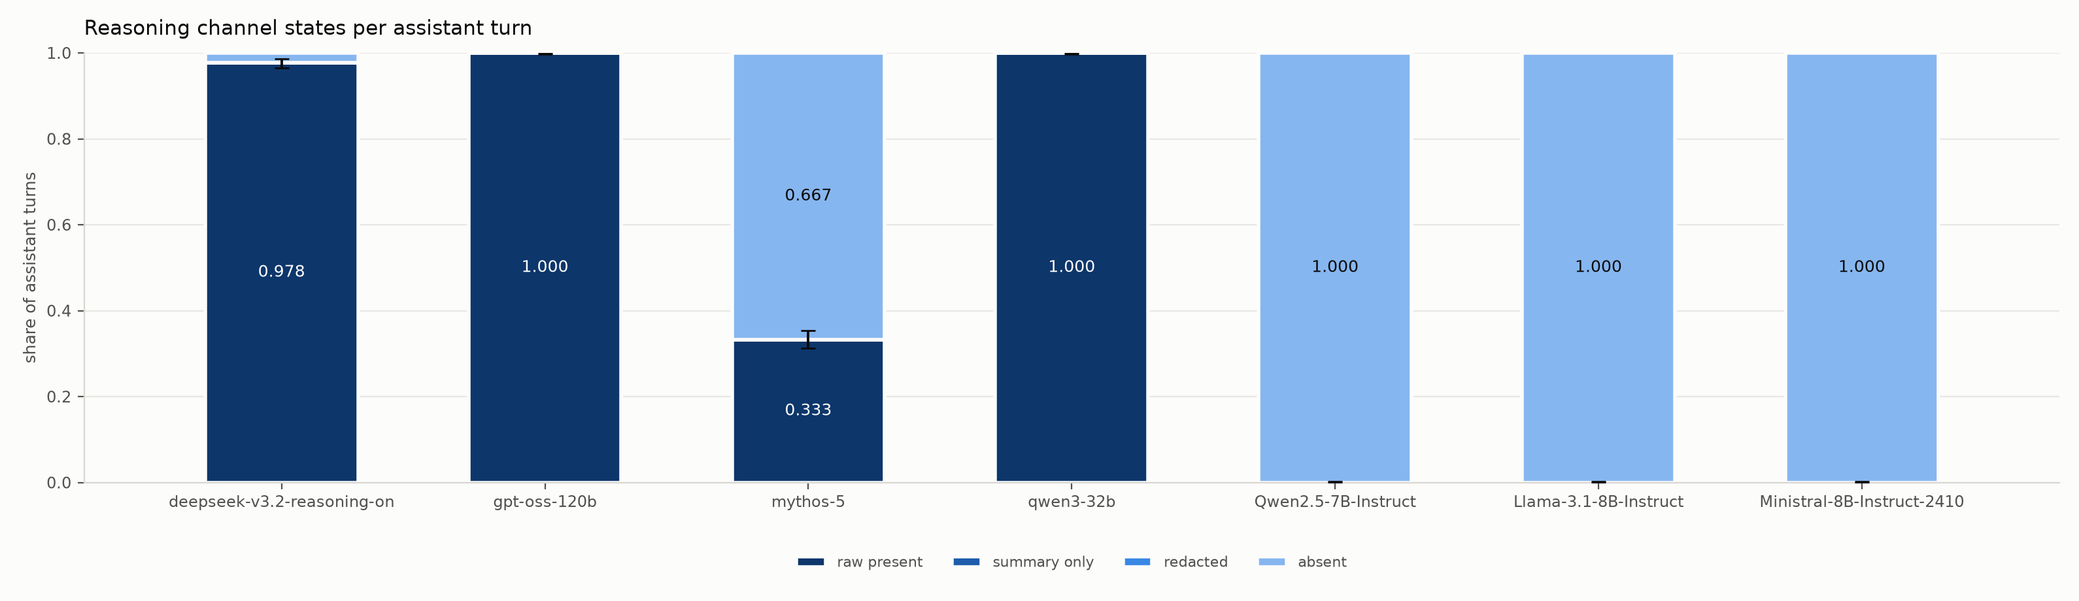
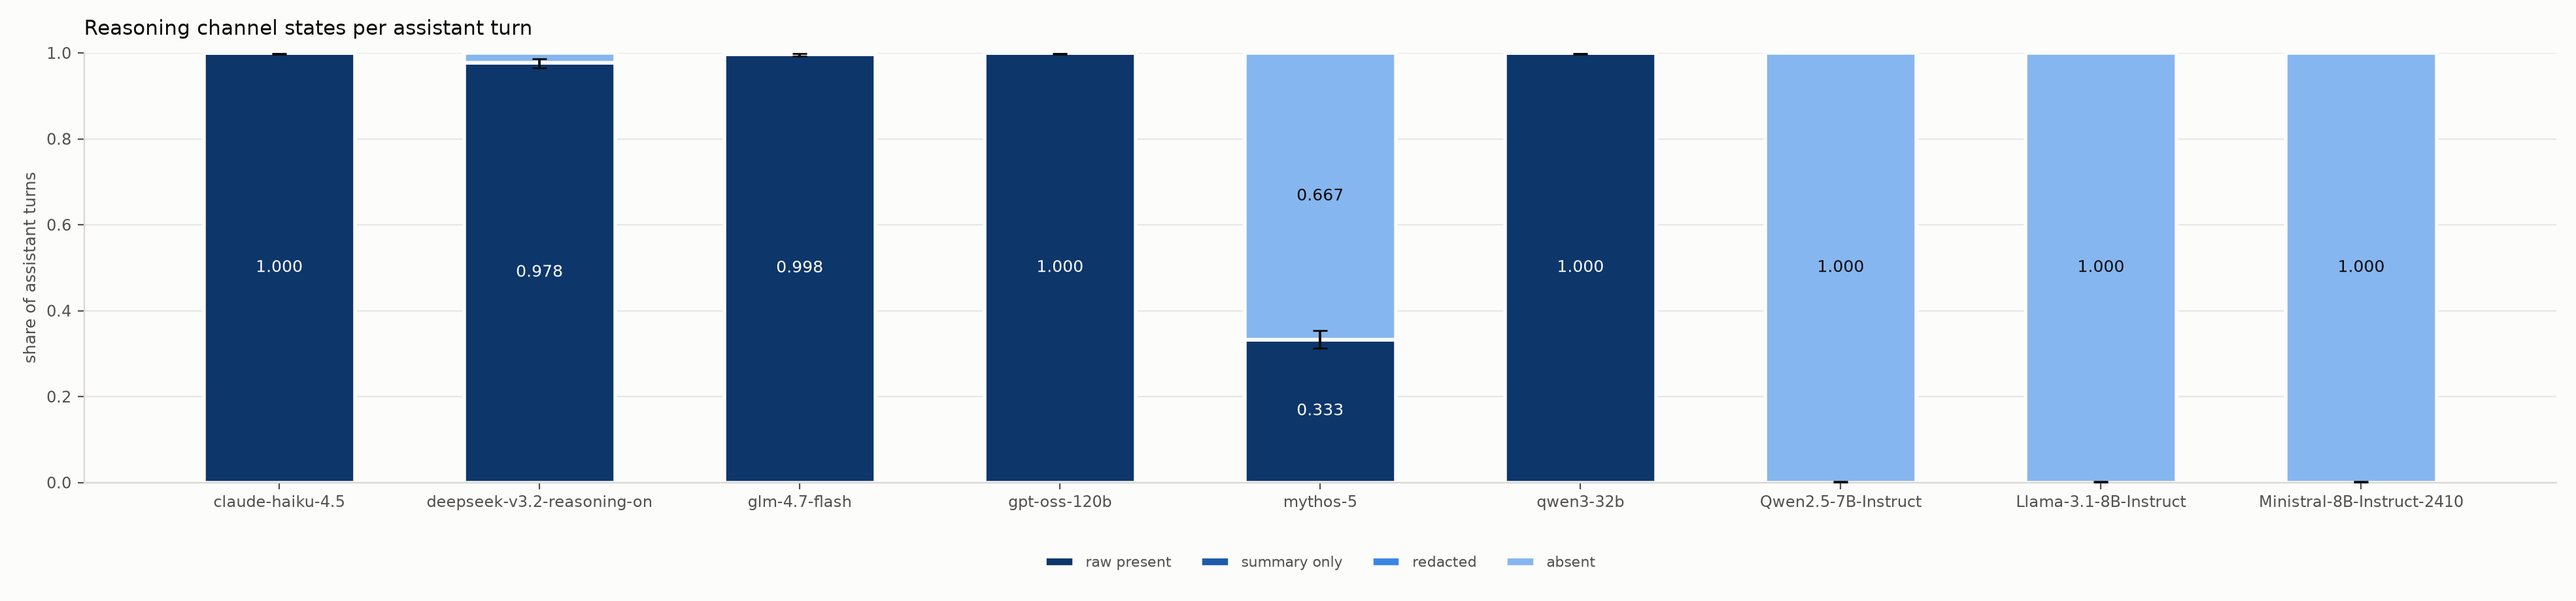
results: claude-haiku-4.5 arm complete (4 of 9)
Verified rather than assumed: the arm finished in 6 minutes, which is fast for
1,013 samples on a reasoning model, so I checked the logs before reporting it.
All four tasks status=success, every sample completed, 356k reasoning tokens
across the arm. It was genuinely just fast.

raw_present 1.0000 [0.9970, 1.0000] over 1,263 turns. The deepseek default arm
has now started, so both halves of the control are in flight.

diff --git a/RESULTS_SUMMARY.md b/RESULTS_SUMMARY.md
@@ -71,7 +71,7 @@ OpenRouter, 2026-09-12/13. Sample counts match §1 exactly so the two are
 comparable. Scoring disabled: we measure the channel, not performance.
 
 <!-- BEGIN:reasoning-status -->
-**3 of 9 arms complete**, 3,789 assistant turns measured. `MIN_CELL_N=30`; no cell is low-n. 0 sample(s) errored; 1 incomplete log(s) excluded and counted. Partially run, excluded from the table: `claude-haiku-4.5`, `deepseek-v3.2-reasoning-on`. Not yet run: `deepseek-v3.2`, `gpt-5-nano-low`, `gpt-5-nano-medium`, `gpt-5-nano-high`.
+**4 of 9 arms complete**, 5,052 assistant turns measured. `MIN_CELL_N=30`; no cell is low-n. 0 sample(s) errored; 1 incomplete log(s) excluded and counted. Partially run, excluded from the table: `deepseek-v3.2-reasoning-on`. Not yet run: `deepseek-v3.2`, `gpt-5-nano-low`, `gpt-5-nano-medium`, `gpt-5-nano-high`.
 <!-- END:reasoning-status -->
 
 Arms below are complete. Pending arms are **not** included in any figure or
@@ -86,6 +86,7 @@ the n actually measured.
 | `gpt-oss-120b` | 1,263 | **1.0000** | [0.9970, 1.0000] | 0.0000 | 0.0000 | 0.0000 |
 | `qwen3-32b` | 1,263 | **1.0000** | [0.9970, 1.0000] | 0.0000 | 0.0000 | 0.0000 |
 | `glm-4.7-flash` | 1,263 | **0.9976** | [0.9930, 0.9992] | 0.0000 | 0.0000 | 0.0024 |
+| `claude-haiku-4.5` | 1,263 | **1.0000** | [0.9970, 1.0000] | 0.0000 | 0.0000 | 0.0000 |
 <!-- END:reasoning-arms -->
 
 Zero samples errored. Incomplete logs are excluded and counted, not partially
